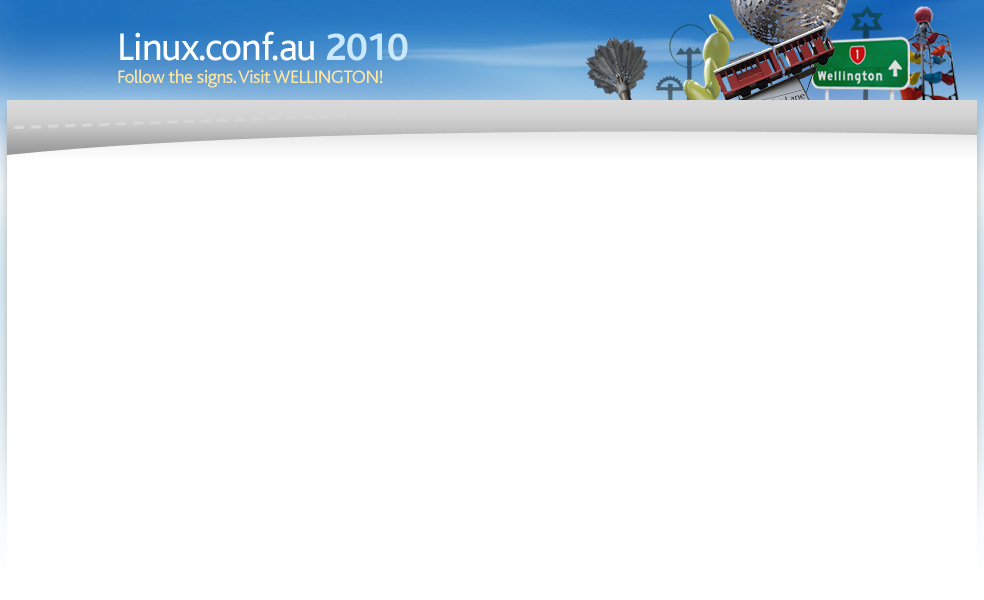
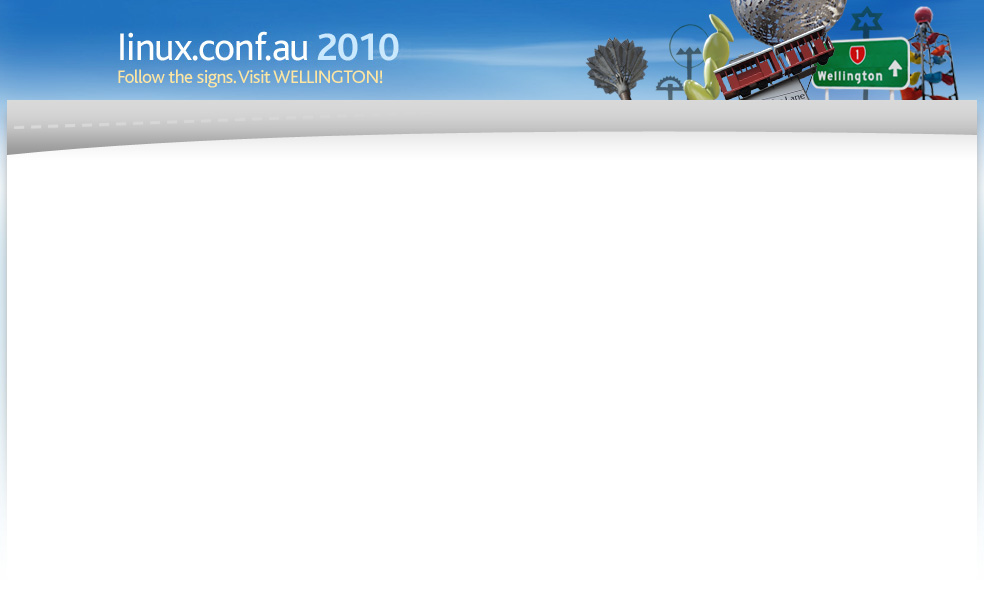
According to Linux Australia's branding, LCA should be expanded to linux.conf.au (all lowercase)

Changed region(s): [[0.122, 0.03, 0.4268, 0.12]]

diff --git a/_maintenance.html b/_maintenance.html
@@ -13,7 +13,7 @@
 <body>
   <div id = "container">
     <div id = "logo">
-      <a href="/"><img src="/public/images/logo.jpg" border="0" alt="Linux.conf.au" /></a>
+      <a href="/"><img src="/public/images/logo.jpg" border="0" alt="linux.conf.au" /></a>
     </div>
     <!-- start content -->
     <div id="wrapper">
@@ -27,7 +27,7 @@
 				linux.conf.au is currently undergoing maintenance. Please be patient and visit back shortly.
 			</p>
 	                <img src="/public/images/banner.gif" border="0" alt="Follow the signs!" /><br /><br />
-                <h1>Linux.conf.au 2010 in Wellington, New Zealand!</h1>
+                <h1>linux.conf.au 2010 in Wellington, New Zealand!</h1>
 
                 <p>linux.conf.au is one of the world's best conferences for free and open source software developers!</p>
                 <p>Now in its 11th year linux.conf.au attracts some of the brightest minds from the southern and northern hemisphere – a major annual event in the conference calendar.</p>
@@ -47,7 +47,7 @@
 
   <div id = 'footer'>
     <div class = 'copyright'>
-  &copy; 2009 <a href="http://linux.conf.au/">Linux.conf.au 2010</a> and <a href="http://www.linux.org.au">Linux Australia</a> | Linux is a registered trademark of Linus Torvalds | <a href="http://validator.w3.org/check?uri=referer">Valid XHTML 1.0</a>
+  &copy; 2009 <a href="http://linux.conf.au/">linux.conf.au 2010</a> and <a href="http://www.linux.org.au">Linux Australia</a> | Linux is a registered trademark of Linus Torvalds | <a href="http://validator.w3.org/check?uri=referer">Valid XHTML 1.0</a>
     </div>
   </div>
 </body>
